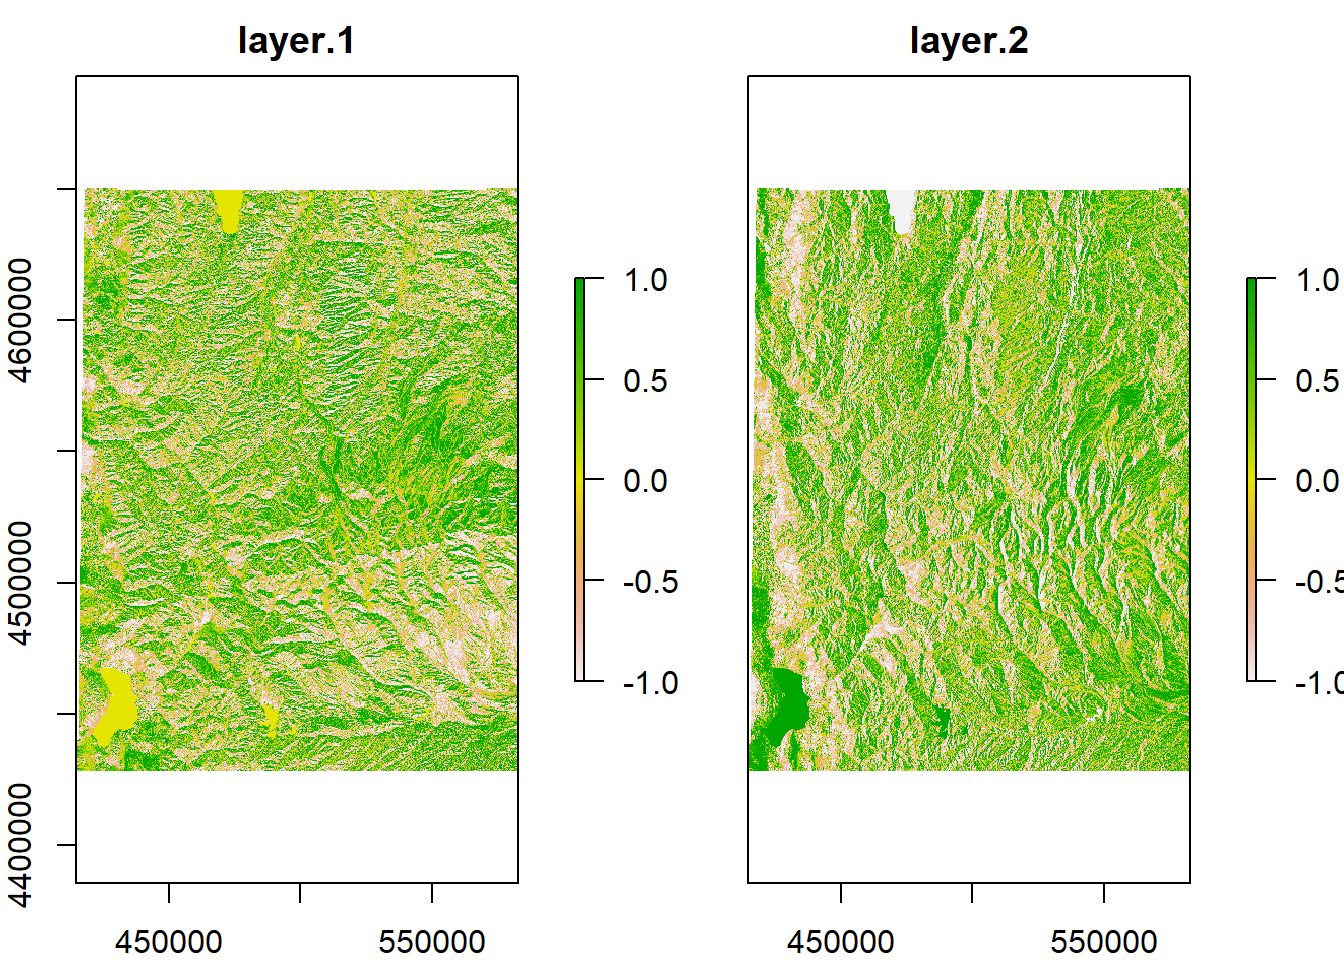
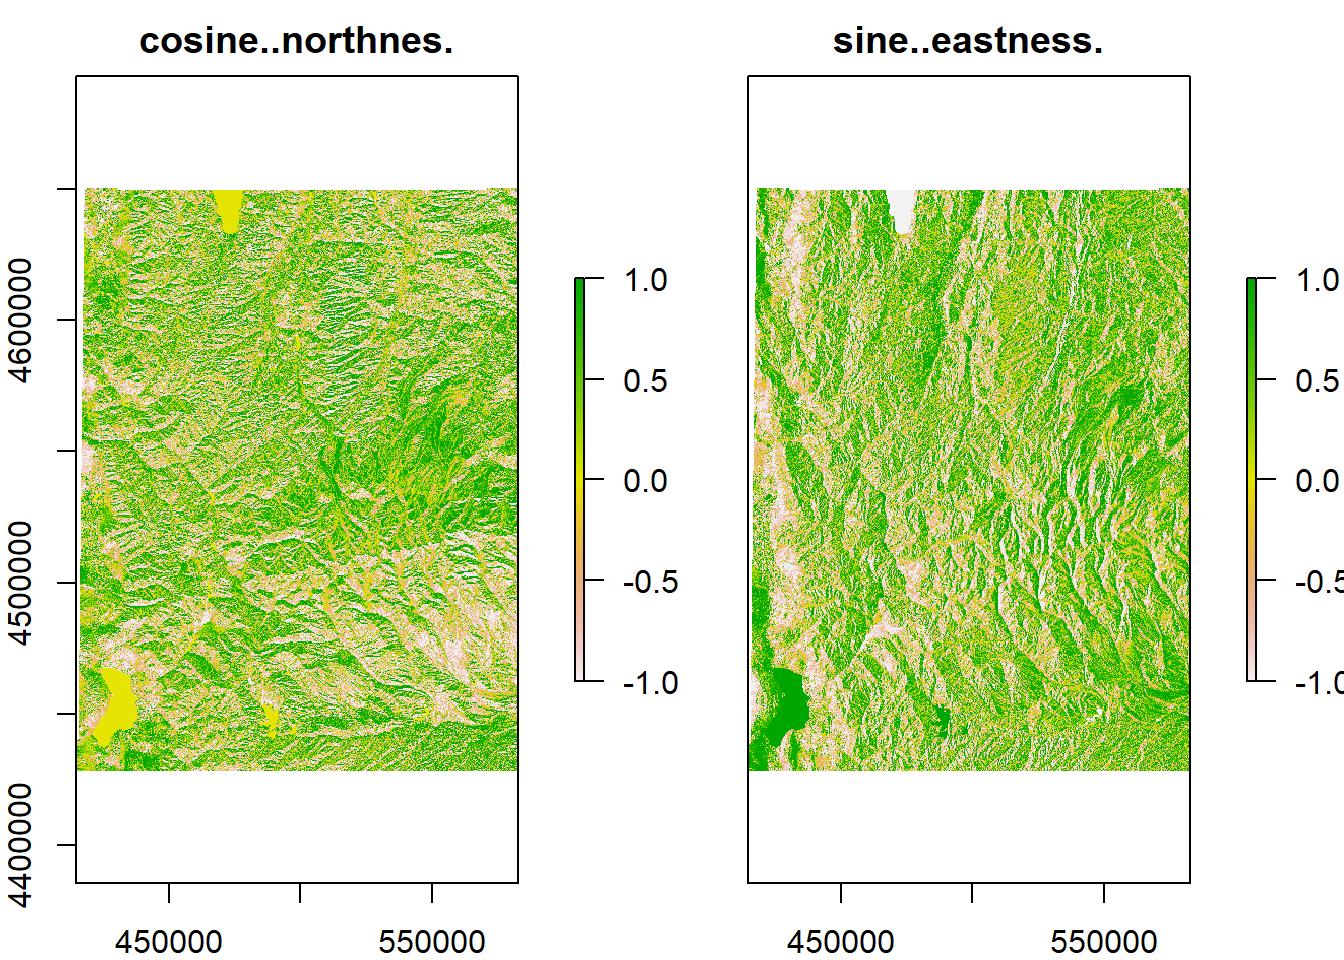
edit aspect and published

Changed region(s): [[0.0938, 0.0312, 0.3438, 0.0625], [0.625, 0.0312, 0.8125, 0.0625]]

diff --git a/docs/spatial-analysis.html b/docs/spatial-analysis.html
@@ -5,25 +5,19 @@
   <meta charset="utf-8" />
   <meta http-equiv="X-UA-Compatible" content="IE=edge" />
   <title>Chapter 4 Spatial Analysis | R Spatial Workshop</title>
-  <meta name="description" content="<p>This is a minimal example of using the bookdown package to write a book.
-The HTML output format for this example is bookdown::gitbook,
-set in the _output.yml file.</p>" />
+  <meta name="description" content="This workshop was created for USU’s Ecology Center R workshops on R Spatial." />
   <meta name="generator" content="bookdown 0.25 and GitBook 2.6.7" />
 
   <meta property="og:title" content="Chapter 4 Spatial Analysis | R Spatial Workshop" />
   <meta property="og:type" content="book" />
   
-  <meta property="og:description" content="<p>This is a minimal example of using the bookdown package to write a book.
-The HTML output format for this example is bookdown::gitbook,
-set in the _output.yml file.</p>" />
+  <meta property="og:description" content="This workshop was created for USU’s Ecology Center R workshops on R Spatial." />
   <meta name="github-repo" content="ronanhart/R_spatial_workshop" />
 
   <meta name="twitter:card" content="summary" />
   <meta name="twitter:title" content="Chapter 4 Spatial Analysis | R Spatial Workshop" />
   
-  <meta name="twitter:description" content="<p>This is a minimal example of using the bookdown package to write a book.
-The HTML output format for this example is bookdown::gitbook,
-set in the _output.yml file.</p>" />
+  <meta name="twitter:description" content="This workshop was created for USU’s Ecology Center R workshops on R Spatial." />
   
 
 <meta name="author" content="Ronan Hart" />
@@ -681,15 +675,16 @@ Figure 4.1: the Uintas are that high-elevation mountain range in the middle righ
 <div class="sourceCode" id="cb229"><pre class="sourceCode r"><code class="sourceCode r"><span id="cb229-1"><a href="spatial-analysis.html#cb229-1" aria-hidden="true" tabindex="-1"></a>aspect_cos <span class="ot">&lt;-</span> <span class="fu">cos</span>(terrain_stk<span class="sc">$</span>aspect)</span>
 <span id="cb229-2"><a href="spatial-analysis.html#cb229-2" aria-hidden="true" tabindex="-1"></a>aspect_sin <span class="ot">&lt;-</span> <span class="fu">sin</span>(terrain_stk<span class="sc">$</span>aspect)</span>
 <span id="cb229-3"><a href="spatial-analysis.html#cb229-3" aria-hidden="true" tabindex="-1"></a>aspect_stk <span class="ot">&lt;-</span> <span class="fu">stack</span>(aspect_cos, aspect_sin)</span>
-<span id="cb229-4"><a href="spatial-analysis.html#cb229-4" aria-hidden="true" tabindex="-1"></a>aspect_stk</span></code></pre></div>
+<span id="cb229-4"><a href="spatial-analysis.html#cb229-4" aria-hidden="true" tabindex="-1"></a><span class="fu">names</span>(aspect_stk) <span class="ot">&lt;-</span> <span class="fu">c</span>(<span class="st">&quot;cosine (northnes)&quot;</span>, <span class="st">&quot;sine (eastness)&quot;</span>)</span>
+<span id="cb229-5"><a href="spatial-analysis.html#cb229-5" aria-hidden="true" tabindex="-1"></a>aspect_stk</span></code></pre></div>
 <pre><code>## class      : RasterStack 
 ## dimensions : 7401, 5606, 41490006, 2  (nrow, ncol, ncell, nlayers)
 ## resolution : 30, 30  (x, y)
 ## extent     : 414639.5, 582819.5, 4428230, 4650260  (xmin, xmax, ymin, ymax)
 ## crs        : +proj=utm +zone=12 +datum=NAD83 +units=m +no_defs 
-## names      : layer.1, layer.2 
-## min values :      -1,      -1 
-## max values :       1,       1</code></pre>
+## names      : cosine..northnes., sine..eastness. 
+## min values :                -1,              -1 
+## max values :                 1,               1</code></pre>
 <div class="sourceCode" id="cb231"><pre class="sourceCode r"><code class="sourceCode r"><span id="cb231-1"><a href="spatial-analysis.html#cb231-1" aria-hidden="true" tabindex="-1"></a><span class="fu">plot</span>(aspect_stk)</span></code></pre></div>
 <p><img src="_main_files/figure-html/cosSine-1.png" width="672" /></p>
 </div>

diff --git a/docs/where-to-obtain-data-further-resources.html b/docs/where-to-obtain-data-further-resources.html
@@ -5,25 +5,19 @@
   <meta charset="utf-8" />
   <meta http-equiv="X-UA-Compatible" content="IE=edge" />
   <title>Chapter 5 Where to Obtain Data &amp; Further Resources | R Spatial Workshop</title>
-  <meta name="description" content="<p>This is a minimal example of using the bookdown package to write a book.
-The HTML output format for this example is bookdown::gitbook,
-set in the _output.yml file.</p>" />
+  <meta name="description" content="This workshop was created for USU’s Ecology Center R workshops on R Spatial." />
   <meta name="generator" content="bookdown 0.25 and GitBook 2.6.7" />
 
   <meta property="og:title" content="Chapter 5 Where to Obtain Data &amp; Further Resources | R Spatial Workshop" />
   <meta property="og:type" content="book" />
   
-  <meta property="og:description" content="<p>This is a minimal example of using the bookdown package to write a book.
-The HTML output format for this example is bookdown::gitbook,
-set in the _output.yml file.</p>" />
+  <meta property="og:description" content="This workshop was created for USU’s Ecology Center R workshops on R Spatial." />
   <meta name="github-repo" content="ronanhart/R_spatial_workshop" />
 
   <meta name="twitter:card" content="summary" />
   <meta name="twitter:title" content="Chapter 5 Where to Obtain Data &amp; Further Resources | R Spatial Workshop" />
   
-  <meta name="twitter:description" content="<p>This is a minimal example of using the bookdown package to write a book.
-The HTML output format for this example is bookdown::gitbook,
-set in the _output.yml file.</p>" />
+  <meta name="twitter:description" content="This workshop was created for USU’s Ecology Center R workshops on R Spatial." />
   
 
 <meta name="author" content="Ronan Hart" />

diff --git a/docs/spatial-data-in-r.html b/docs/spatial-data-in-r.html
@@ -5,25 +5,19 @@
   <meta charset="utf-8" />
   <meta http-equiv="X-UA-Compatible" content="IE=edge" />
   <title>Chapter 3 Spatial Data in R | R Spatial Workshop</title>
-  <meta name="description" content="<p>This is a minimal example of using the bookdown package to write a book.
-The HTML output format for this example is bookdown::gitbook,
-set in the _output.yml file.</p>" />
+  <meta name="description" content="This workshop was created for USU’s Ecology Center R workshops on R Spatial." />
   <meta name="generator" content="bookdown 0.25 and GitBook 2.6.7" />
 
   <meta property="og:title" content="Chapter 3 Spatial Data in R | R Spatial Workshop" />
   <meta property="og:type" content="book" />
   
-  <meta property="og:description" content="<p>This is a minimal example of using the bookdown package to write a book.
-The HTML output format for this example is bookdown::gitbook,
-set in the _output.yml file.</p>" />
+  <meta property="og:description" content="This workshop was created for USU’s Ecology Center R workshops on R Spatial." />
   <meta name="github-repo" content="ronanhart/R_spatial_workshop" />
 
   <meta name="twitter:card" content="summary" />
   <meta name="twitter:title" content="Chapter 3 Spatial Data in R | R Spatial Workshop" />
   
-  <meta name="twitter:description" content="<p>This is a minimal example of using the bookdown package to write a book.
-The HTML output format for this example is bookdown::gitbook,
-set in the _output.yml file.</p>" />
+  <meta name="twitter:description" content="This workshop was created for USU’s Ecology Center R workshops on R Spatial." />
   
 
 <meta name="author" content="Ronan Hart" />

diff --git a/docs/gis-basics.html b/docs/gis-basics.html
@@ -5,25 +5,19 @@
   <meta charset="utf-8" />
   <meta http-equiv="X-UA-Compatible" content="IE=edge" />
   <title>Chapter 2 GIS basics | R Spatial Workshop</title>
-  <meta name="description" content="<p>This is a minimal example of using the bookdown package to write a book.
-The HTML output format for this example is bookdown::gitbook,
-set in the _output.yml file.</p>" />
+  <meta name="description" content="This workshop was created for USU’s Ecology Center R workshops on R Spatial." />
   <meta name="generator" content="bookdown 0.25 and GitBook 2.6.7" />
 
   <meta property="og:title" content="Chapter 2 GIS basics | R Spatial Workshop" />
   <meta property="og:type" content="book" />
   
-  <meta property="og:description" content="<p>This is a minimal example of using the bookdown package to write a book.
-The HTML output format for this example is bookdown::gitbook,
-set in the _output.yml file.</p>" />
+  <meta property="og:description" content="This workshop was created for USU’s Ecology Center R workshops on R Spatial." />
   <meta name="github-repo" content="ronanhart/R_spatial_workshop" />
 
   <meta name="twitter:card" content="summary" />
   <meta name="twitter:title" content="Chapter 2 GIS basics | R Spatial Workshop" />
   
-  <meta name="twitter:description" content="<p>This is a minimal example of using the bookdown package to write a book.
-The HTML output format for this example is bookdown::gitbook,
-set in the _output.yml file.</p>" />
+  <meta name="twitter:description" content="This workshop was created for USU’s Ecology Center R workshops on R Spatial." />
   
 
 <meta name="author" content="Ronan Hart" />

diff --git a/docs/index.html b/docs/index.html
@@ -5,25 +5,19 @@
   <meta charset="utf-8" />
   <meta http-equiv="X-UA-Compatible" content="IE=edge" />
   <title>R Spatial Workshop</title>
-  <meta name="description" content="<p>This is a minimal example of using the bookdown package to write a book.
-The HTML output format for this example is bookdown::gitbook,
-set in the _output.yml file.</p>" />
+  <meta name="description" content="This workshop was created for USU’s Ecology Center R workshops on R Spatial." />
   <meta name="generator" content="bookdown 0.25 and GitBook 2.6.7" />
 
   <meta property="og:title" content="R Spatial Workshop" />
   <meta property="og:type" content="book" />
   
-  <meta property="og:description" content="<p>This is a minimal example of using the bookdown package to write a book.
-The HTML output format for this example is bookdown::gitbook,
-set in the _output.yml file.</p>" />
+  <meta property="og:description" content="This workshop was created for USU’s Ecology Center R workshops on R Spatial." />
   <meta name="github-repo" content="ronanhart/R_spatial_workshop" />
 
   <meta name="twitter:card" content="summary" />
   <meta name="twitter:title" content="R Spatial Workshop" />
   
-  <meta name="twitter:description" content="<p>This is a minimal example of using the bookdown package to write a book.
-The HTML output format for this example is bookdown::gitbook,
-set in the _output.yml file.</p>" />
+  <meta name="twitter:description" content="This workshop was created for USU’s Ecology Center R workshops on R Spatial." />
   
 
 <meta name="author" content="Ronan Hart" />
